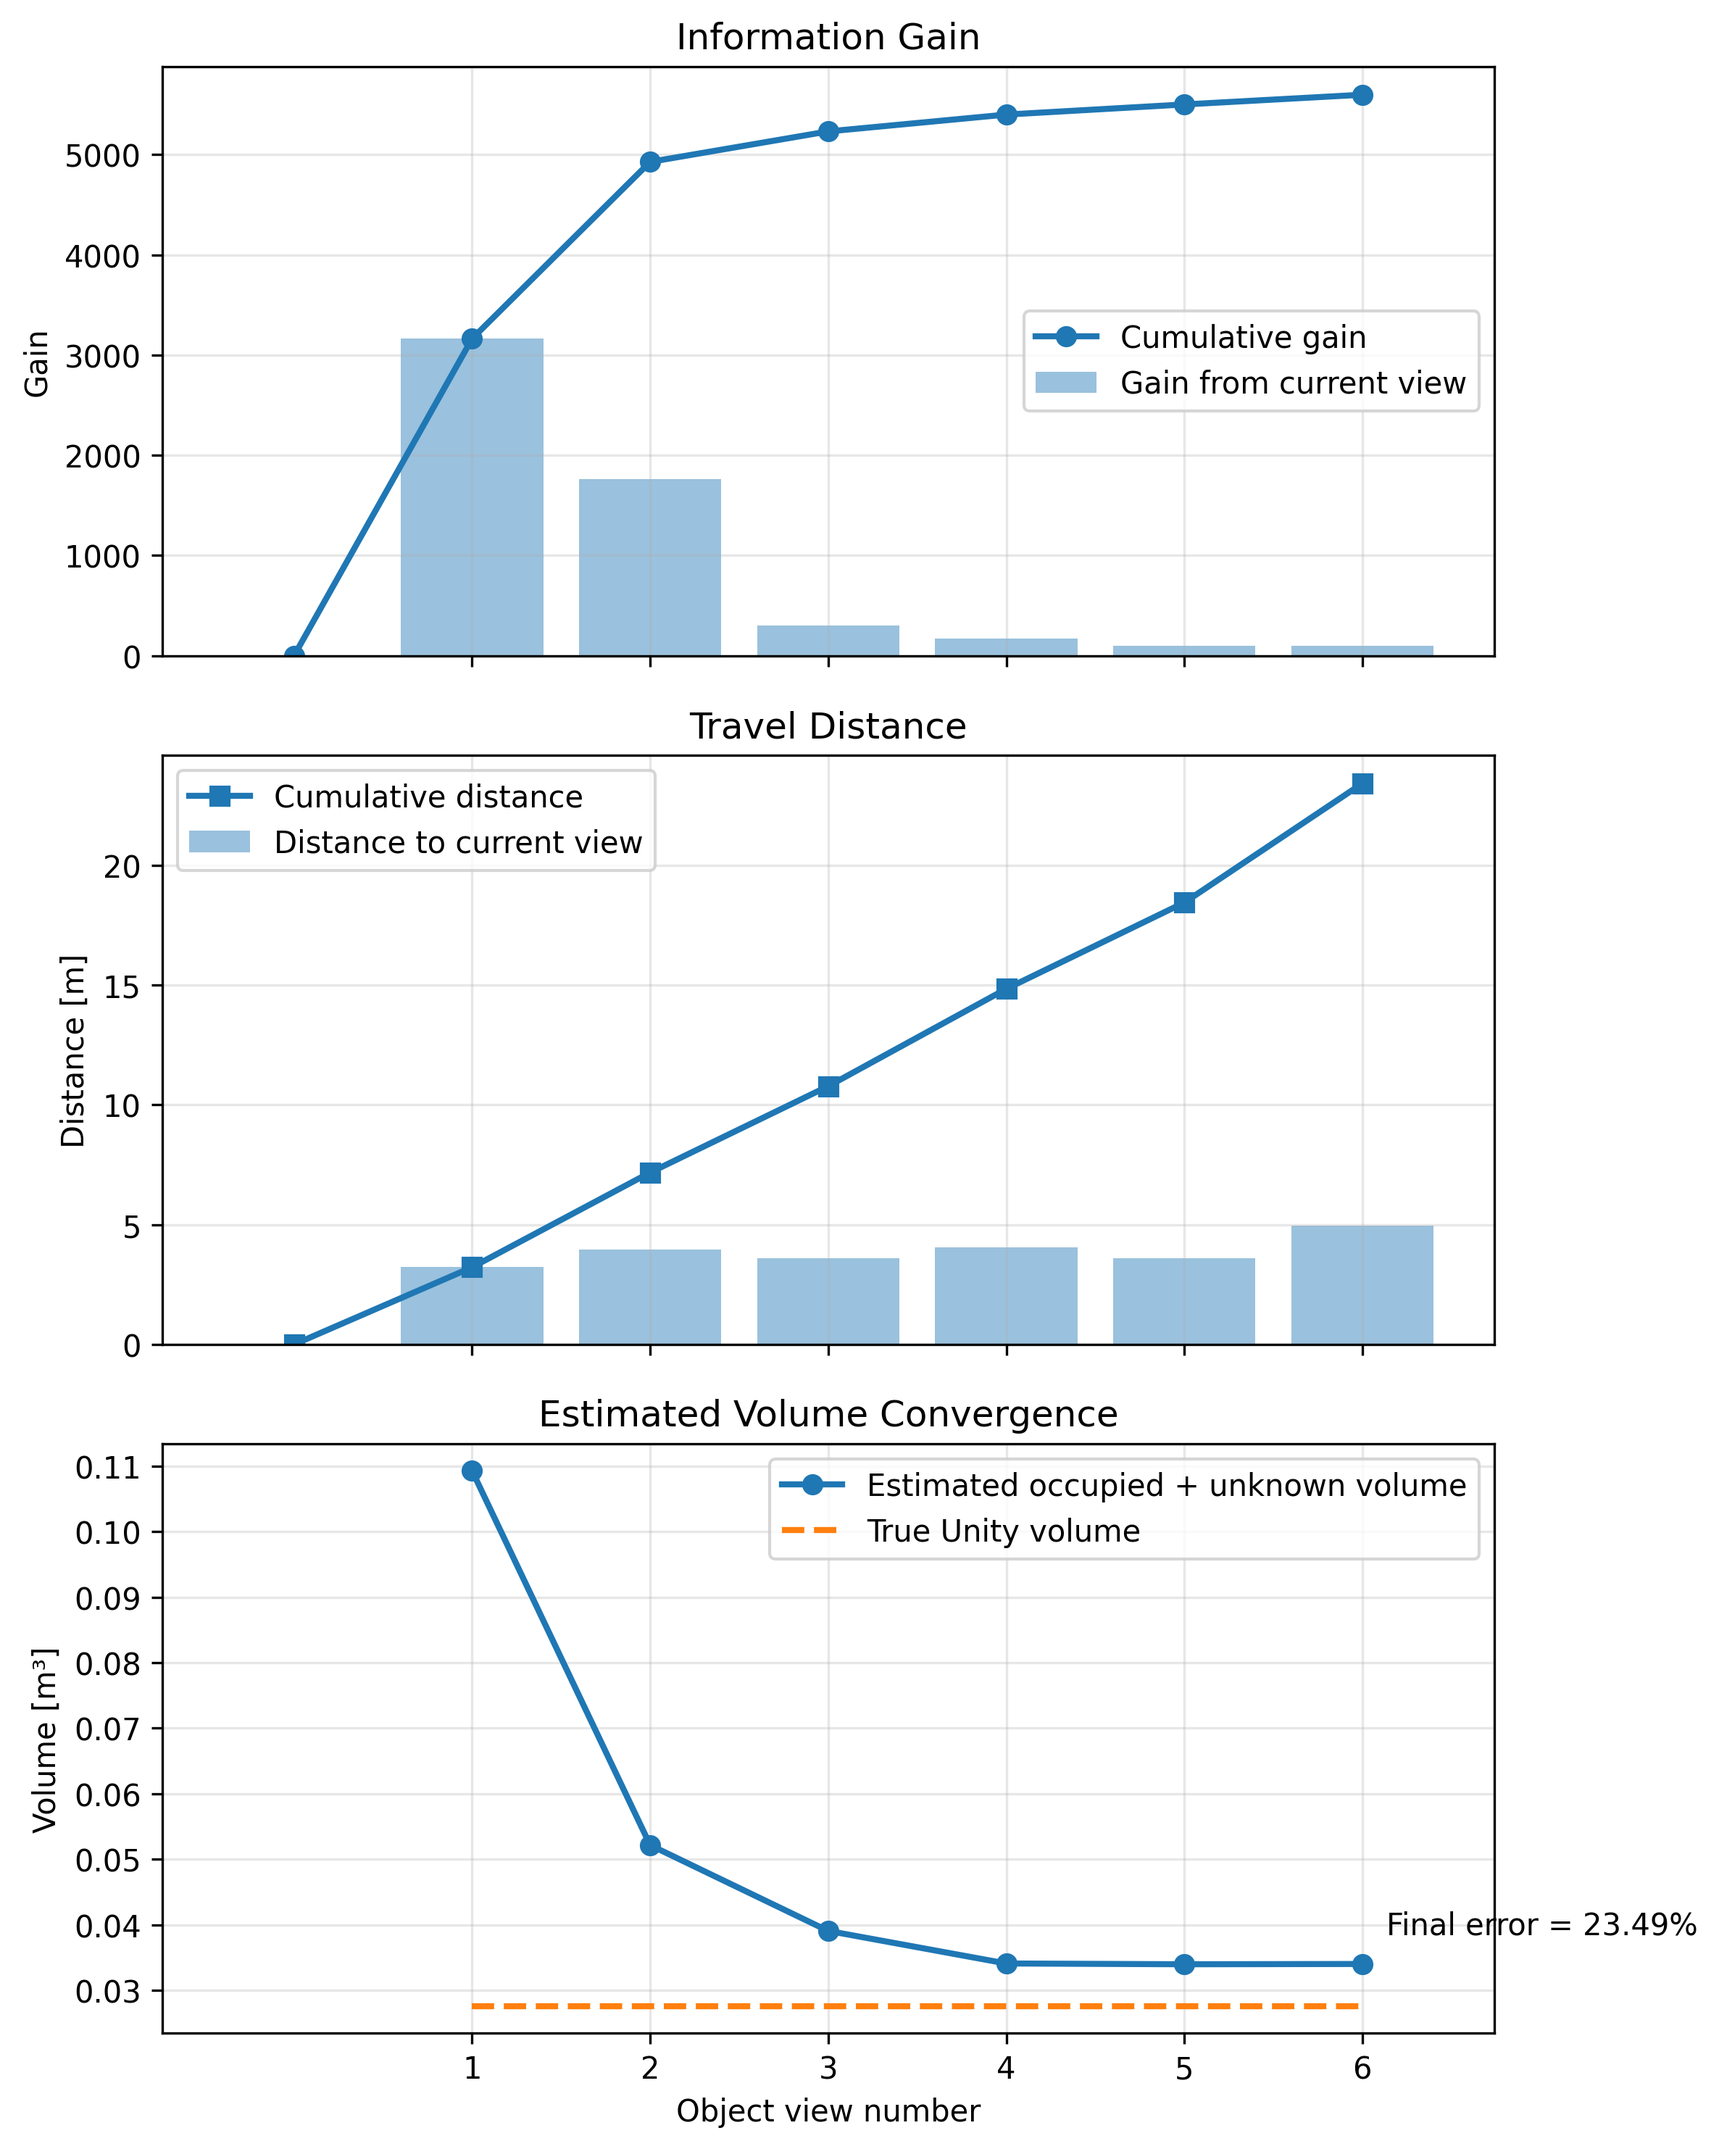
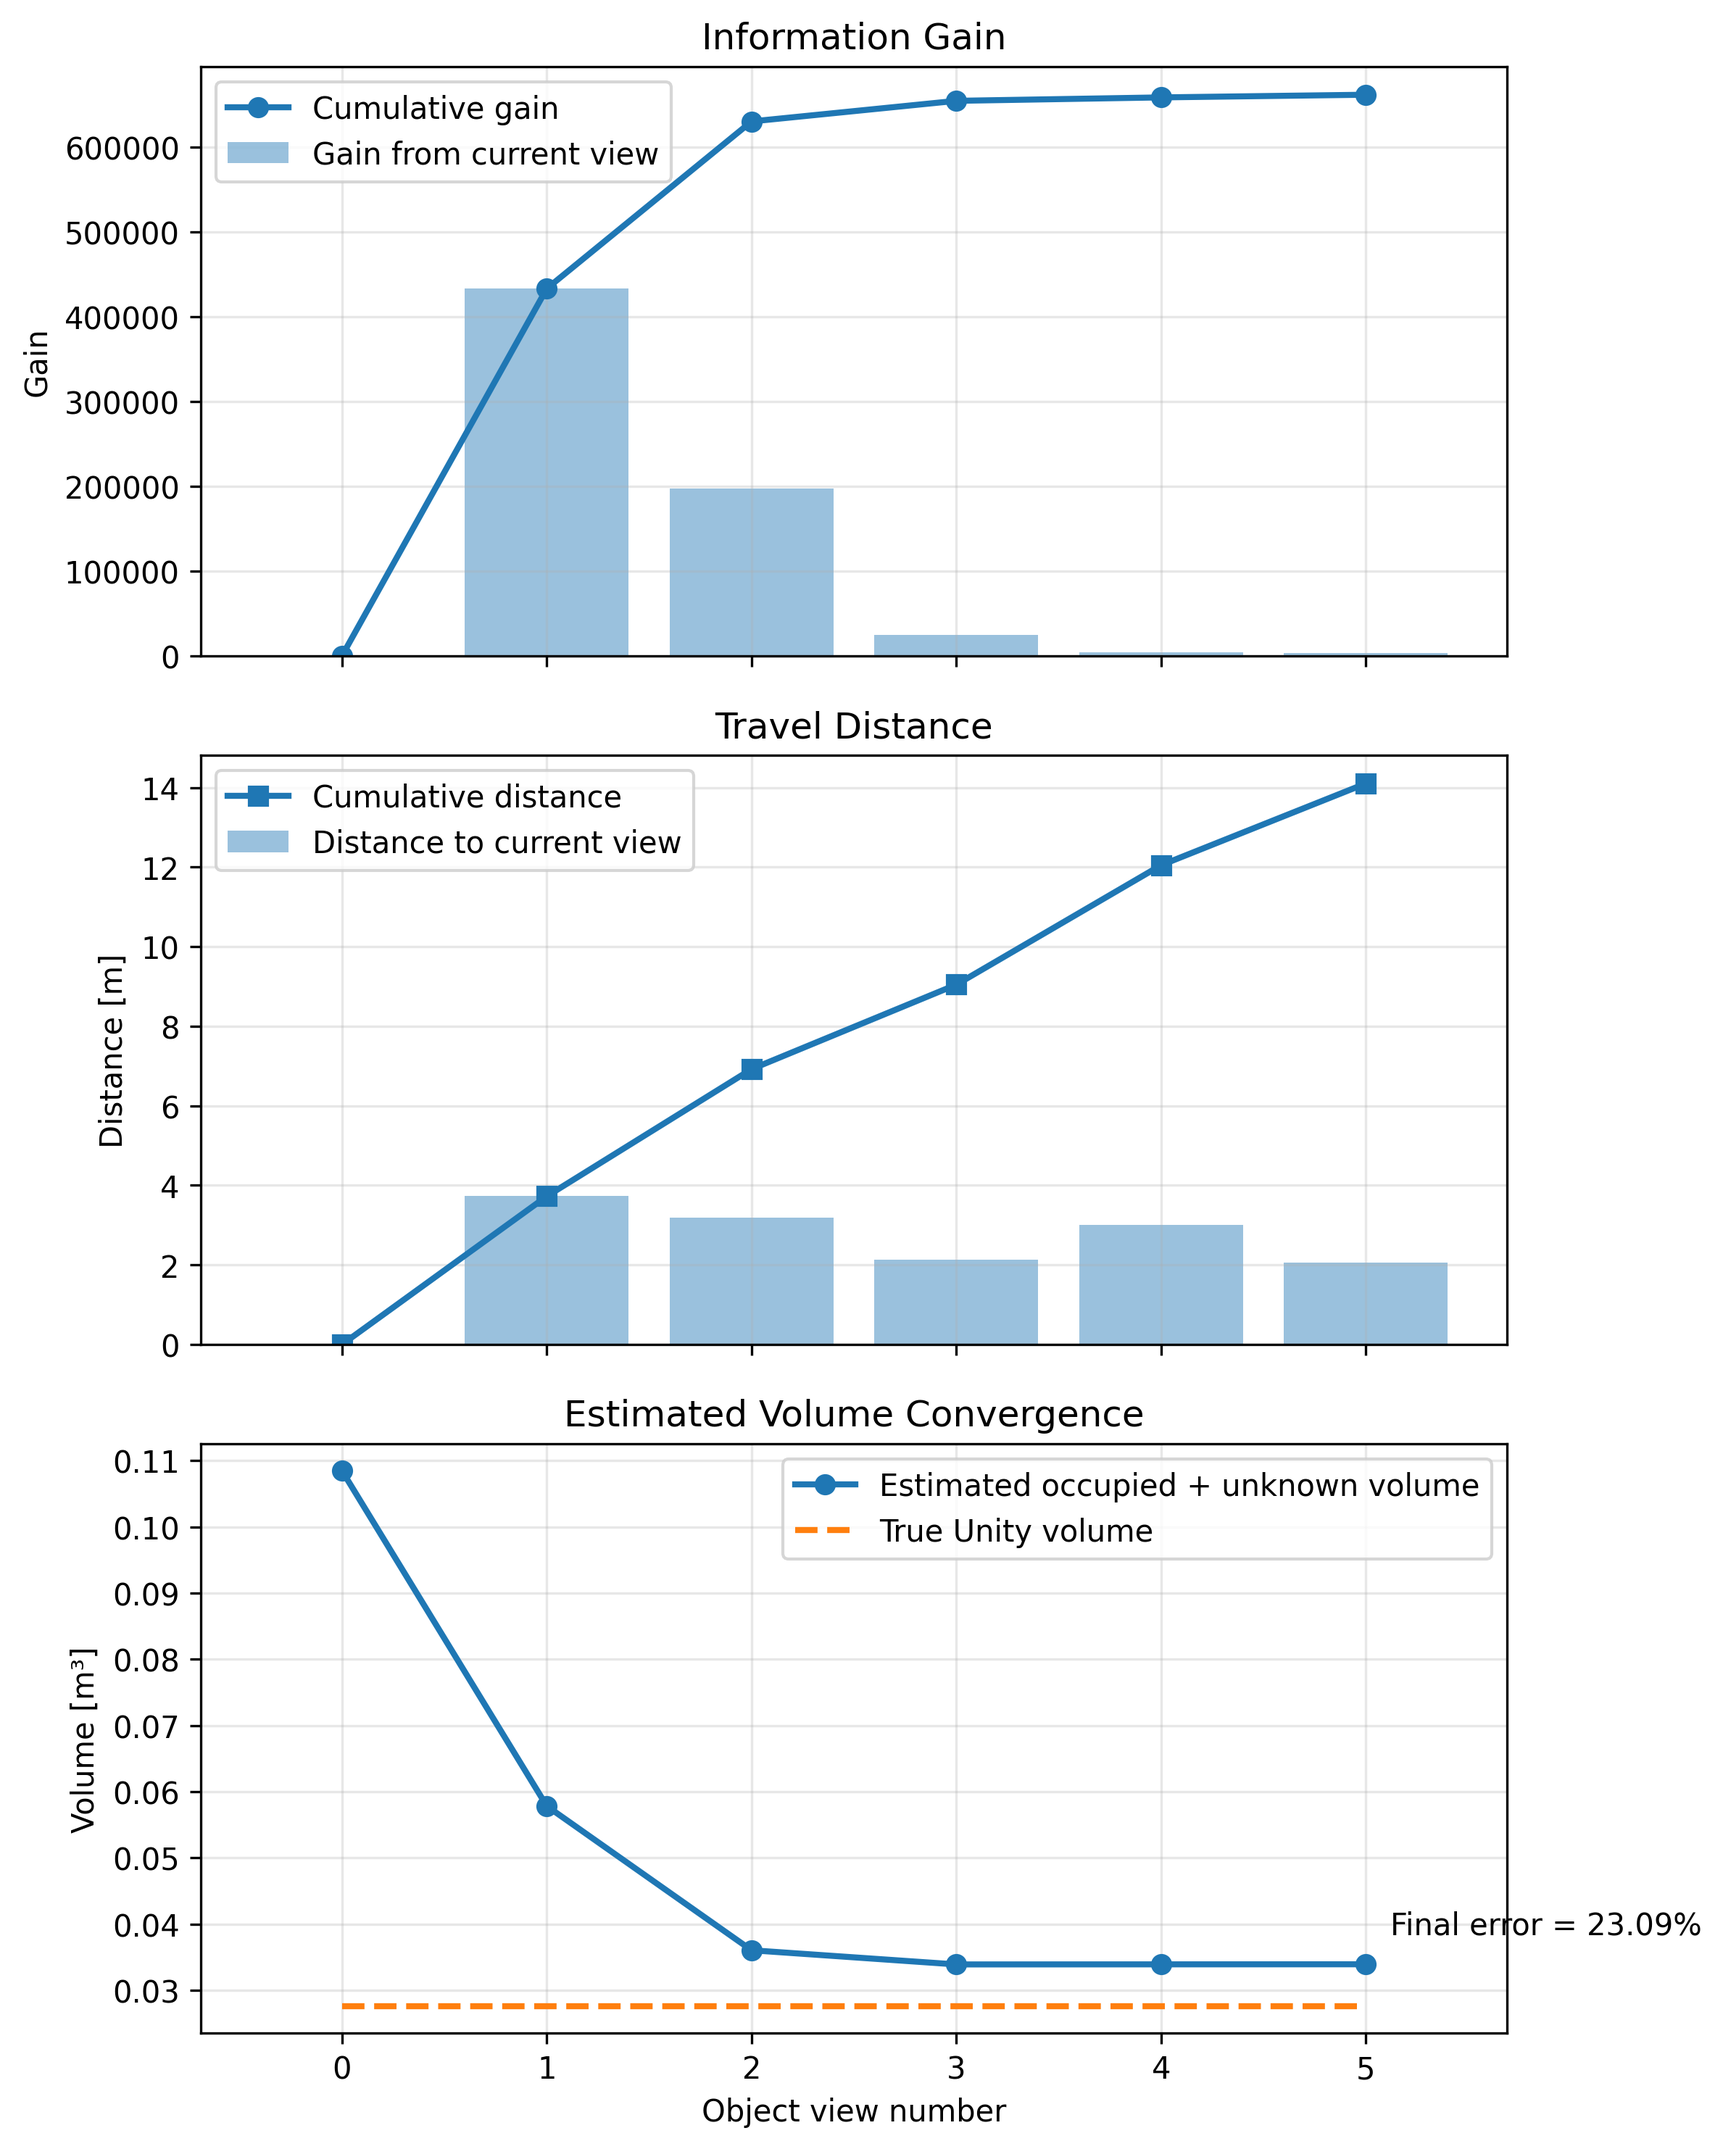
plotting update

diff --git a/functions_print.py b/functions_print.py
@@ -335,58 +335,26 @@ def save_volume_history_to_excel(
     
 
 def plot_nbv_evaluation_history(
+    unknown_voxel_history,
+    position_history,
+    volume_history,
+    true_volume,
     view_numbers,
-    nbv_gains,
-    nbv_distances,
-    estimated_volumes,
-    true_volumes,
-    output_file_path = None,
+    output_file_path=None,
 ):
+    true_volumes = np.ones(len(view_numbers))*true_volume
+    gains = np.insert(-np.diff(np.asarray(unknown_voxel_history)), 0, 0)
+    pos = np.asarray(position_history)
+    step_distances = np.linalg.norm(np.diff(pos, axis=0), axis=1) if len(pos) > 1 else np.array([])
+    distance = np.insert(step_distances, 0, 0)
+    fig, axes = plt.subplots(3, 1, figsize=(8, 10), sharex=True,)
 
-    #view_numbers = np.asarray(view_numbers, dtype=int)
-    #nbv_gains = np.asarray(nbv_gains, dtype=float)
-    #nbv_distances = np.asarray(nbv_distances, dtype=float)
-    estimated_volumes = np.asarray(estimated_volumes, dtype=float)
-    true_volumes = np.asarray(true_volumes, dtype=float)
-
-
-    nbv_gains = np.insert(nbv_gains, 0, 0.0)
-    nbv_distances = np.insert(nbv_distances, 0, 0.0)
-    gd_views = np.insert(view_numbers, 0, 0)
-    
-    cumulative_gains = np.cumsum(nbv_gains)
-    cumulative_distances = np.cumsum(nbv_distances)
-
-    volume_error_percent = (
-        np.abs(estimated_volumes - true_volumes)
-        / true_volumes
-        * 100.0
-    )
-
-    fig, axes = plt.subplots(
-        3,
-        1,
-        figsize=(8, 10),
-        sharex=True,
-    )
-
+    # ---------------------------------------------------------
+    # Gain (diff in number of unknown_voxels)
+    # ---------------------------------------------------------    
     ax_gain = axes[0]
-
-    ax_gain.bar(
-        gd_views,
-        nbv_gains,
-        alpha=0.45,
-        label="Gain from current view",
-    )
-
-    ax_gain.plot(
-        gd_views,
-        cumulative_gains,
-        marker="o",
-        linewidth=2,
-        label="Cumulative gain",
-    )
-
+    ax_gain.bar(np.asarray(view_numbers), gains, alpha=0.45, label="Gain from current view")
+    ax_gain.plot(np.asarray(view_numbers), np.cumsum(gains), marker="o", linewidth=2, label='Cumulative gain')
     ax_gain.set_title("Information Gain")
     ax_gain.set_ylabel("Gain")
     ax_gain.grid(True, alpha=0.3)
@@ -396,22 +364,8 @@ def plot_nbv_evaluation_history(
     # Distance
     # ---------------------------------------------------------
     ax_distance = axes[1]
-
-    ax_distance.bar(
-        gd_views,
-        nbv_distances,
-        alpha=0.45,
-        label="Distance to current view",
-    )
-
-    ax_distance.plot(
-        gd_views,
-        cumulative_distances,
-        marker="s",
-        linewidth=2,
-        label="Cumulative distance",
-    )
-
+    ax_distance.bar(np.asarray(view_numbers), distance, alpha=0.45, label="Distance to current view")
+    ax_distance.plot(np.asarray(view_numbers), np.cumsum(distance), marker="s", linewidth=2, label="Cumulative distance")
     ax_distance.set_title("Travel Distance")
     ax_distance.set_ylabel("Distance [m]")
     ax_distance.grid(True, alpha=0.3)
@@ -421,28 +375,14 @@ def plot_nbv_evaluation_history(
     # Volume
     # ---------------------------------------------------------
     ax_volume = axes[2]
-
-    ax_volume.plot(
-        view_numbers,
-        estimated_volumes,
-        marker="o",
-        linewidth=2,
-        label="Estimated occupied + unknown volume",
-    )
-
-    ax_volume.plot(
-        view_numbers,
-        true_volumes,
-        linestyle="--",
-        linewidth=2,
-        label="True Unity volume",
-    )
-
-    final_error = volume_error_percent[-1]
+    ax_volume.plot(np.asarray(view_numbers), np.asarray(volume_history), marker="o", linewidth=2, label="Estimated occupied + unknown volume")
+    ax_volume.plot(np.asarray(view_numbers), true_volumes, linestyle="--", linewidth=2, label="True Unity volume")
+    
+    final_error = np.abs(volume_history[-1] - true_volume) / true_volume * 100.0
 
     ax_volume.annotate(
         f"Final error = {final_error:.2f}%",
-        xy=(view_numbers[-1], estimated_volumes[-1]),
+        xy=(view_numbers[-1], np.asarray(volume_history)[-1]),
         xytext=(8, 10),
         textcoords="offset points",
     )
@@ -456,10 +396,6 @@ def plot_nbv_evaluation_history(
     for ax in axes:
         ax.set_xticks(view_numbers)
 
-    #fig.suptitle(
-    #    f"Path-Planning Evaluation: {planner_name}",
-    #    fontsize=15,
-    #)
 
     plt.tight_layout()
     if output_file_path is not None:
@@ -471,3 +407,4 @@ def plot_nbv_evaluation_history(
         plt.close()
     else:
         plt.show()
+        

diff --git a/main.py b/main.py
@@ -39,7 +39,7 @@ VOLUME_STABLE_LIMIT = 2
 
 # plotting option
 PLOT_VOXEL_CENTERS = False
-PLOT_INTERMEDIATE_RESULTS = True
+PLOT_INTERMEDIATE_RESULTS = False
 
 def is_drone_at_target(current_position, target_position, tolerance):
     distance = np.linalg.norm(current_position - target_position)
@@ -65,8 +65,9 @@ def main():
     # volume
     view_history = []
     volume_history = []
-    true_volume_history = []    
     prev_volume = None
+    unknown_voxel_history = [] # number of unknown voxels
+    position_history = []
     
     # nbv history
     nbv_distance = []
@@ -97,7 +98,8 @@ def main():
                 if len(filtered_points) == 0:
                     continue
                 recon.initialize(filtered_points)
-            
+                print('INITIAL_UNKNOWN_COUNT', recon.unknown_count)
+                
             if waiting_for_nbv_move:
                 is_at_target, distance = is_drone_at_target(position, pending_nbv_position, NBV_POSITION_TOLERANCE)
                 if not is_at_target:
@@ -116,8 +118,10 @@ def main():
                 floor_height=FLOOR_HEIGHT,
                 height_threshold=HEIGHT_THRESHOLD
             )
-            
-            detected_view_count += 1
+            unknown_voxel_history.append(recon.unknown_count)
+            view_history.append(detected_view_count)
+            position_history.append(position)
+            volume_history.append(recon.occupied_volume + recon.unknown_volume)
             
             print(
                 "\n===================================================="
@@ -138,10 +142,6 @@ def main():
                     ),
                 )
             
-            view_history.append(detected_view_count)
-            volume_history.append(recon.occupied_volume + recon.unknown_volume)
-            true_volume_history.append(true_volume)
-            
             if prev_volume is not None:
                 relative_change = abs(volume_history[-1]-prev_volume) /max(abs(prev_volume), 1e-12)
                 
@@ -157,6 +157,7 @@ def main():
                     f"{stable_volume_count}/"
                     f"{VOLUME_STABLE_LIMIT}"
                 )
+                
             prev_volume = volume_history[-1]
             
             if stable_volume_count >= VOLUME_STABLE_LIMIT:
@@ -167,14 +168,18 @@ def main():
                 )
                 results_folder = "results"
                 os.makedirs(results_folder, exist_ok=True)
+
                 plot_nbv_evaluation_history(
+                    unknown_voxel_history=unknown_voxel_history,
+                    position_history=position_history,
+                    volume_history=volume_history,
+                    true_volume=true_volume,
                     view_numbers=view_history,
-                    nbv_gains=nbv_gain,
-                    nbv_distances=nbv_distance,
-                    estimated_volumes=volume_history,
-                    true_volumes=true_volume_history,
-                    output_file_path=os.path.join(results_folder, 'nbv_evaluation_history.png')
+                    output_file_path=os.path.join(results_folder, 'nbv_evaluation_history.png'),
+
                 )
+                
+                print('UNKNOWN_COUNT HISTORY', unknown_voxel_history)
                 break 
                             
             nbv = NextBestViewPlanner(
@@ -198,10 +203,12 @@ def main():
 
             nbv_gain.append(best_score)
             nbv_distance.append(best_dist)
+            
             pending_nbv_position = np.asarray(best_view['pos'], dtype=float)
             waiting_for_nbv_move = True
             
             send_next_view(nbv_socket, best_view)
+            detected_view_count += 1
 
             print(
                 "\nSent NBV target to Unity."
@@ -212,12 +219,11 @@ def main():
             
             if PLOT_INTERMEDIATE_RESULTS:
                 plot_nbv_evaluation_history(
+                    unknown_voxel_history=unknown_voxel_history,
+                    position_history=position_history,
+                    volume_history=volume_history,
+                    true_volume=true_volume,
                     view_numbers=view_history,
-                    nbv_gains=nbv_gain,
-                    nbv_distances=nbv_distance,
-                    estimated_volumes=volume_history,
-                    true_volumes=true_volume_history,
-                    output_file_path=None,
                 )
 
             

diff --git a/functions_compute.py b/functions_compute.py
@@ -154,11 +154,11 @@ class ExtrusionFusionReconstruction:
         occupied_mask = self.voxel_state == OCCUPIED
         unknown_mask = self.voxel_state == UNKNOWN
 
-        occupied_count = int(np.count_nonzero(occupied_mask))
-        unknown_count = int(np.count_nonzero(unknown_mask))
+        self.occupied_count = int(np.count_nonzero(occupied_mask))
+        self.unknown_count = int(np.count_nonzero(unknown_mask))
 
-        self.occupied_volume = occupied_count * voxel_volume
-        self.unknown_volume = unknown_count * voxel_volume
+        self.occupied_volume = self.occupied_count * voxel_volume
+        self.unknown_volume = self.unknown_count * voxel_volume
 
         self.occupied_indices = np.argwhere(occupied_mask)
         self.unknown_indices = np.argwhere(unknown_mask)

diff --git a/nbv/nbv_main.py b/nbv/nbv_main.py
@@ -153,7 +153,7 @@ class NextBestViewPlanner:
 
         for view in views:
             gain_abs = self.compute_gain(occupied_points_w, unknown_points_w, view['pos'], view['quat'])
-            print('gain', gain_abs)
+            #print('gain', gain_abs)
             if visualize_candidates:
                             self.visualize_view(
                                 occupied_points_w, 
